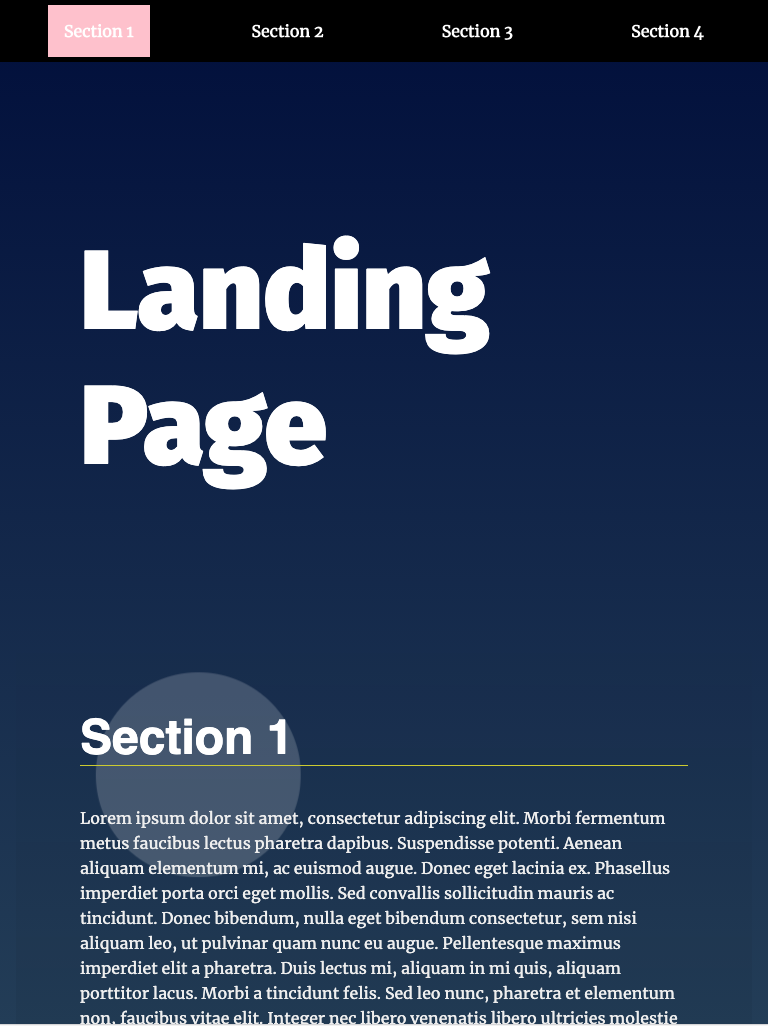
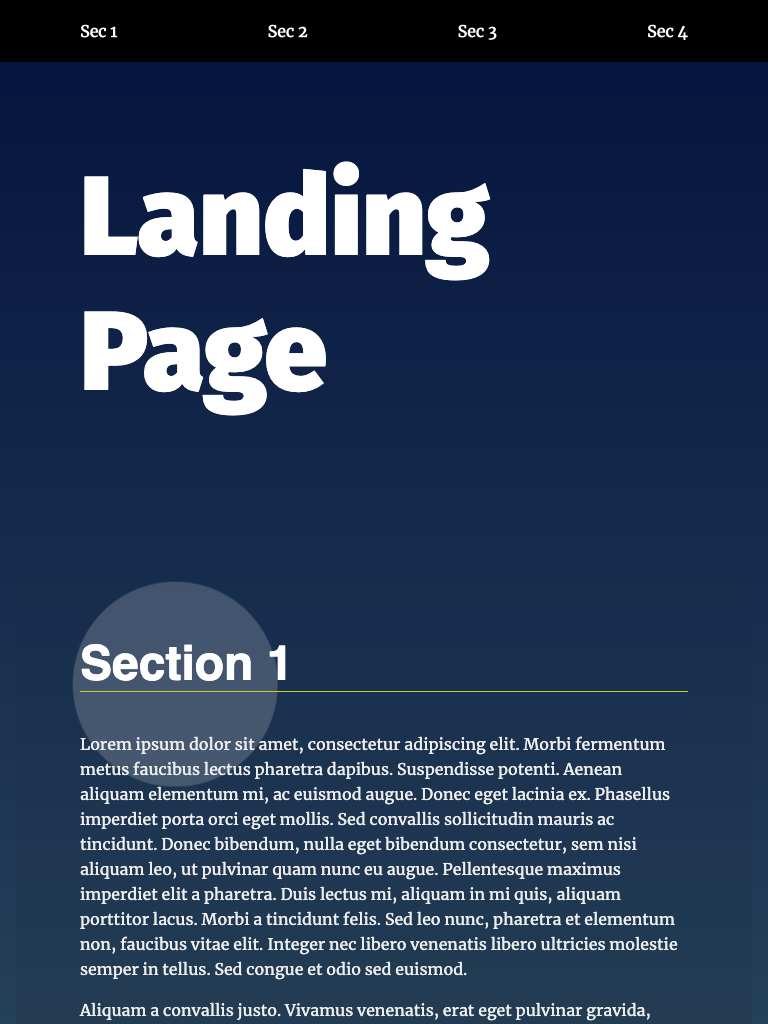
feat: Use abbreviation for menu sections, change images for readme

diff --git a/js/app.js b/js/app.js
@@ -22,7 +22,8 @@ function buildNav() {
         const listItem = document.createElement('li');
         const aItem = document.createElement('a');
         aItem.href = "#" + section.dataset.nav.toLowerCase().replace(/\s+/g, '');
-        aItem.textContent = section.dataset.nav;
+        aItem.textContent = section.dataset.nav.slice(0,3) + " " + section.dataset.nav.slice(-1);
+
         listItem.appendChild(aItem);
         listItem.classList.add('menu__link');
         listItem.classList.add('.menu__link:hover');
